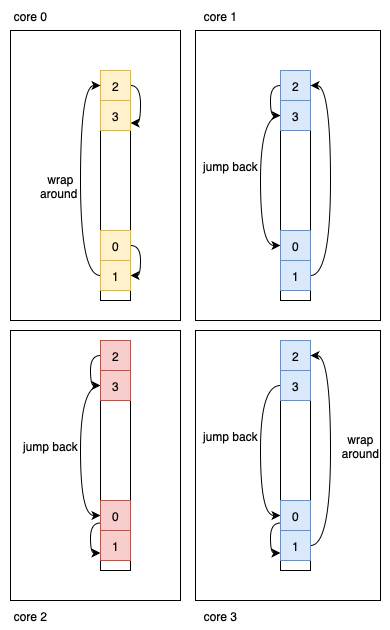
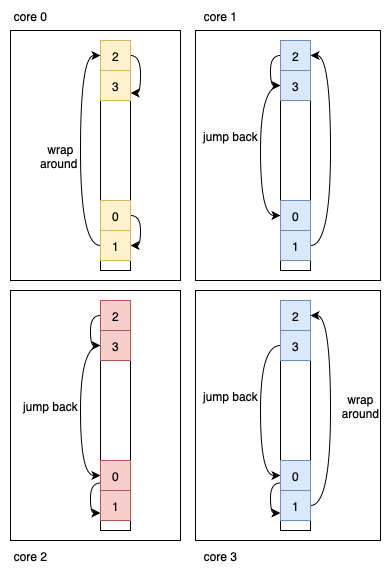
[skip ci] update doc

diff --git a/tech_reports/Prefetcher/Prefetcher.md b/tech_reports/Prefetcher/Prefetcher.md
@@ -110,7 +110,7 @@ The prefetcher acts as a **sender** in the global circular buffer setup, utilizi
 1. **DRAM Reader Kernel** (`reader_dram.cpp`)
    - Fetches data from DRAM banks into local triple-buffered circular buffer
    - Each prefetcher core reads tensors from it's assigned DRAM bank, each tensor is read in block by block (the size of a block and number of blocks is based on the Matmul side specification)
-   - **Transaction ID Management**: Uses NOC transaction IDs to coordinate DRAM reads with the triple-buffered circular buffer. The kernel maintains `curr_block_trid` to track which transaction ID to use for each block, rotating through IDs 1→2→3→1→... to map reads to different blocks.
+   - **Transaction ID Management**: Uses NoC transaction IDs to coordinate DRAM reads with the triple-buffered circular buffer. The kernel maintains `curr_block_trid` to track which transaction ID to use for each block, rotating through IDs 1→2→3→1→... to map reads to different blocks.
 
    For detailed implementation of DRAM reading optimizations and transaction ID management, see [Saturating_DRAM_bandwidth.md](../Saturating_DRAM_bandwidth/Saturating_DRAM_bandwidth.md).
 
@@ -126,7 +126,7 @@ The prefetcher acts as a **sender** in the global circular buffer setup, utilizi
    experimental::resize_remote_sender_cb_interface<true>(remote_cb_id, curr_block_size_per_receiver, noc);
    ```
    - This API is called each time before we switch to the next tensor. Since different tensors have different shapes and tile sizes and data formats, this caused each tensor having different block size. The global CB page size needs to be reconfigured for each tensor to match the block size that will be sent to each receiver core.
-   - For the detailed implementation, it updates the CB interface page size, adjusts read/write pointers to proper alignment, and if necessary, signals receivers over NOC about the configuration change.
+   - For the detailed implementation, it updates the CB interface page size, adjusts read/write pointers to proper alignment, and if necessary, signals receivers over NoC about the configuration change.
 
    **2. Flow Control (`remote_cb_reserve_back`)**
    ```cpp
@@ -149,7 +149,7 @@ The prefetcher acts as a **sender** in the global circular buffer setup, utilizi
    - This is the core data movement operation that actually transfers the tensor block from the prefetcher's local CB to each receiver core's portion of the global CB.
    - `block_height_in_pages` means the number of pages on the height dim of each tensor block. `coalesced_page_size` here is the pages that grouped together that can form one NoC writes. `coalesced_num_pages_per_row` means the number of NoC writes need to be performed for each row of the block.
    - functionality:
-     - Performs coalesced NOC writes to distribute block slices to each receiver core
+     - Performs coalesced NoC writes to distribute block slices to each receiver core
      - Each receiver gets a slice of the tensor block
      - Updates the sent page counters to signal receivers that new data is available
      - Handles wraparound in the circular buffer automatically
@@ -202,7 +202,7 @@ uint32_t num_receivers = l1_remote_cb_config_addr[1];            // Number of re
 uint32_t fifo_start_addr = l1_remote_cb_config_addr[2];          // Base address of circular buffer
 uint32_t fifo_size = l1_remote_cb_config_addr[3];               // Total size of circular buffer
 uint32_t fifo_ptr = l1_remote_cb_config_addr[4];                // Initial read/write pointer
-uint32_t remote_noc_xy_addr = l1_remote_cb_config_addr[5];      // Address containing NOC coordinates
+uint32_t remote_noc_xy_addr = l1_remote_cb_config_addr[5];      // Address containing NoC coordinates
 uint32_t aligned_pages_sent_addr = l1_remote_cb_config_addr[6]; // Address for page synchronization counters
 ```
 
@@ -215,7 +215,7 @@ RemoteSenderCBInterface& sender_cb_interface = get_remote_sender_cb_interface(cb
 sender_cb_interface.config_ptr = config_addr;                    // Pointer to L1 config
 sender_cb_interface.fifo_start_addr = fifo_start_addr;          // Buffer start address
 sender_cb_interface.fifo_wr_ptr = fifo_ptr;                     // Write pointer
-sender_cb_interface.receiver_noc_xy_ptr = remote_noc_xy_addr;   // Receiver NOC coordinates
+sender_cb_interface.receiver_noc_xy_ptr = remote_noc_xy_addr;   // Receiver NoC coordinates
 sender_cb_interface.aligned_pages_sent_ptr = aligned_pages_sent_addr; // Sent page counters
 sender_cb_interface.num_receivers = num_receivers;             // Number of receivers
 ```
@@ -226,7 +226,7 @@ RemoteReceiverCBInterface& receiver_cb_interface = get_remote_receiver_cb_interf
 receiver_cb_interface.config_ptr = config_addr;                 // Pointer to L1 config
 receiver_cb_interface.fifo_start_addr = fifo_start_addr;       // Buffer start address
 receiver_cb_interface.fifo_rd_ptr = fifo_ptr;                  // Read pointer
-receiver_cb_interface.sender_noc_x = sender_noc_x;             // Sender NOC coordinates
+receiver_cb_interface.sender_noc_x = sender_noc_x;             // Sender NoC coordinates
 receiver_cb_interface.sender_noc_y = sender_noc_y;
 receiver_cb_interface.aligned_pages_acked_ptr = aligned_pages_acked_addr; // Acked page counters
 ```
@@ -234,7 +234,7 @@ receiver_cb_interface.aligned_pages_acked_ptr = aligned_pages_acked_addr; // Ack
 **Key Initialization Steps:**
 1. **Configuration Reading**: Each core reads its role (sender/receiver) and parameters from L1
 2. **Interface Setup**: Appropriate CB interface structure is populated based on core role
-3. **NOC Coordinate Mapping**: NOC coordinates are extracted for remote communication
+3. **NoC Coordinate Mapping**: NoC coordinates are extracted for remote communication
 4. **Synchronization Setup**: Page counter addresses are configured for flow control
 5. **Initial Sizing**: The CB interface is sized with initial page size via `resize_remote_*_cb_interface`
 
@@ -253,11 +253,11 @@ When switching between tensors with different shapes or data formats, the global
 **The Problem Without Alignment:**
 If tensors are stored at non-aligned locations in the circular buffer, when the buffer wraps around to the top, a simple `cb_pop_front` operation on the consumer side will not land at the correct tensor boundary. The consumer would read from the middle of a tensor or across tensor boundaries, corrupting the data.
 
-**How It Works:**
+**Alignment:**
 1. **Before New Tensor**: The write pointer may be at an arbitrary location after the previous tensor
-2. **Alignment Step**: The pointer is advanced to the next page-aligned boundary that matches the new tensor's page size
+2. **Alignment Step**: The pointer is advanced to the next page-aligned address that matches the new tensor's page size, ie, (address - global CB start address) is always the multiple of current page size.
 3. **Tensor Storage**: The new tensor is stored starting at this aligned location
-4. **Wraparound Guarantee**: When the buffer wraps around, the consumer's `cb_pop_front` operations will correctly land at tensor boundaries
+4. **Wraparound**: When the buffer wraps around, the consumer's `cb_pop_front` operations will correctly land at tensor boundaries
 
 **Consumer Benefit:**
 With page alignment, the consumer (matmul core) can perform simple circular buffer operations without worrying about tensor boundaries. Each `cb_pop_front` operation moves exactly one "page" (tensor block), and wraparound automatically lands at the start of the next tensor.
@@ -271,180 +271,49 @@ The matmul operation serves as the consumer side of the global circular buffer, 
 
 ### Overview:
 
-Matmul cores act as **receivers** in the global CB system, consuming data streamed by the prefetcher:
+Matmul cores act as **receivers** in the global CB system, consuming data streamed by the prefetcher. Here is the diagram of a ring Matmul consisting of 4 cores, each core start at a different ring index. For example, core 0 strat at ring index 0 and iterate over the weight tensor in global CB with an order 0->1->2->3, core 1 strat at ring index 1 and iterate over the weight tensor in global CB with an order 1->2->3->0.
+
+![Matmul 1D Ring Example](images/matmul-1d-ring-example.png)
 
 
 ### Mechanism: Advanced Circular Buffer Management
 
 #### 1. Tensor Split Detection and Handling
 
-Large tensors may wrap around the circular buffer boundary. The matmul kernel detects and handles this automatically:
+For tensors that does not wrap around the global CB boundary, each block is allocated continuously for the tensor, and no special management are needed. For tensors that wrap around the global CB boundary, special pointer management are needed to make sure each core indexes into the global CB correclty. The matmul kernel detects and handles this automatically:
 
-```cpp
-FORCE_INLINE bool is_tensor_split(uint32_t cb_id, uint32_t tensor_size_bytes) {
-    LocalCBInterface& local_cb = get_local_cb_interface(cb_id);
-    uint32_t fifo_rd_ptr = local_cb.fifo_rd_ptr;
-    uint32_t fifo_limit = local_cb.fifo_limit;
-    // Check if tensor exceeds remaining buffer space
-    bool split = (fifo_limit - fifo_rd_ptr) < tensor_size_bytes / L1_ALIGNMENT;
-    return split;
-}
-```
+![Matmul 1D Ring Tensor Handling](images/matmul-1d-ring-tensor-handling.png)
 
-When a tensor split is detected, the kernel handles wraparound correctly:
+**Tensor Split Scenarios:**
 
-```cpp
-FORCE_INLINE void calculate_next_block_index_and_update_rd_ptr(
-    uint32_t cb_id, uint32_t num_blocks, uint32_t block_size_bytes,
-    uint32_t curr_block_index, uint32_t cb_start_addr, uint32_t rd_ptr_start_addr,
-    bool tensor_split, uint32_t* updated_block_index, uint32_t* updated_rd_ptr) {
+The image illustrates two critical scenarios the matmul kernel must handle:
 
-    LocalCBInterface& local_cb = get_local_cb_interface(cb_id);
-    uint32_t next_block_index = curr_block_index + 1;
-    bool reach_limit = local_cb.fifo_rd_ptr == local_cb.fifo_limit;
-    bool last_block = curr_block_index == (num_blocks - 1);
+1. **Tensor Split Detected**: When the current read pointer position plus the tensor size exceeds the circular buffer boundary, a split is detected. This triggers wraparound logic to ensure correct block access.
 
-    if (tensor_split) {
-        if (reach_limit) {
-            local_cb.fifo_rd_ptr = cb_start_addr;  // Wrap to beginning
-            if (last_block) {
-                next_block_index = 0;
-                next_fifo_rd_ptr = rd_ptr_start_addr;
-            } else {
-                next_fifo_rd_ptr = cb_start_addr + block_size_bytes_aligned;
-            }
-        }
-        // ... additional wraparound logic
-    }
-}
-```
+2. **Ring Index Wraparound**: In a 1D ring topology, each core start at the Nth block, where N is their ring index. When tensor splits occur, the kernel must correctly calculate both the start block index, the next block index and the wrapped read pointer address. For exmple, core 3 in the diagram first start at block 3, the next block will require a jump back to the base tensor address, and after processing block 1, it will require a wrap around handling to the top of the global CB.
 
-#### 2. Ring Index Positioning
 
-Each matmul core in the 1D ring processes different blocks. The kernel automatically positions the read pointer to the correct starting location:
-
-```cpp
-FORCE_INLINE void update_rd_ptr_to_ring_index(
-    uint32_t cb_id, uint32_t block_size_bytes, uint32_t ring_index, bool tensor_split) {
-
-    LocalCBInterface& local_cb = get_local_cb_interface(cb_id);
-
-    if (tensor_split) {
-        // Handle wraparound for ring positioning
-        if ((local_cb.fifo_rd_ptr + ring_index * block_size_bytes / L1_ALIGNMENT) >= local_cb.fifo_limit) {
-            uint32_t fifo_size = local_cb.fifo_size;
-            uint32_t fifo_limit = local_cb.fifo_limit;
-            uint32_t fifo_start_addr = fifo_limit - fifo_size;
-            uint32_t fifo_size_skip_bytes = local_cb.fifo_rd_ptr - fifo_start_addr;
-
-            // Calculate wrapped position using modulo arithmetic
-            local_cb.fifo_rd_ptr = fifo_start_addr +
-                (fifo_size_skip_bytes + ring_index * block_size_bytes / L1_ALIGNMENT) % local_cb.fifo_size;
-        } else {
-            local_cb.fifo_rd_ptr += ring_index * block_size_bytes / L1_ALIGNMENT;
-        }
-    } else {
-        // Simple offset for non-split tensors
-        local_cb.fifo_rd_ptr += ring_index * block_size_bytes / L1_ALIGNMENT;
-    }
-}
-```
-
-#### 3. Compute Kernel Integration
-
-The compute kernel manages CB state throughout matmul execution:
-
-```cpp
-// From bmm_large_block_zm_fused_bias_activation_gathered.cpp
-#ifdef ENABLE_GLOBAL_CB
-    uint32_t in1_cb_start_addr = 0;
-    uint32_t in1_rd_ptr_start_addr = 0;
-    uint32_t curr_in1_block_index = 0;
-    bool in1_tensor_split = 0;
-
-    // Initialize CB interface state
-    UNPACK((in1_cb_start_addr = get_local_cb_start_addr(in1_cb_id)));
-    UNPACK((in1_rd_ptr_start_addr = get_local_cb_rd_ptr(in1_cb_id)));
-    UNPACK((curr_in1_block_index = ring_idx));
-    UNPACK((in1_tensor_split = is_tensor_split(in1_cb_id, in1_tensor_size_bytes)));
-
-    // Position to correct ring index
-    UNPACK((update_rd_ptr_to_ring_index(in1_cb_id, in1_block_size_bytes, ring_idx, in1_tensor_split)));
-#endif
-
-for (uint32_t block = 0; block < num_blocks; block++) {
-    const uint32_t curr_ring_idx = (ring_idx + block) % ring_size;
-
-    // Wait for data from global CB
-    if constexpr (in1_is_dram) {
-        cb_wait_front(in1_cb_id, in1_block_num_tiles);
-    }
-
-    #ifdef ENABLE_GLOBAL_CB
-        // Calculate next block position in ring
-        UNPACK((calculate_next_block_index_and_update_rd_ptr(
-            in1_cb_id, num_blocks, in1_block_size_bytes,
-            curr_in1_block_index, in1_cb_start_addr, in1_rd_ptr_start_addr,
-            in1_tensor_split, &next_in1_block_index, &next_in1_rd_ptr_addr)));
-    #endif
-
-    // Perform matmul computation
-    // ... computation logic ...
-
-    #ifdef ENABLE_GLOBAL_CB
-        // Update state for next iteration
-        curr_in1_block_index = next_in1_block_index;
-        UNPACK((update_local_cb_rd_ptr(in1_cb_id, next_in1_rd_ptr_addr)));
-    #endif
-}
-
-#ifdef ENABLE_GLOBAL_CB
-    // Reset for next tensor in sequence
-    UNPACK((update_local_cb_rd_ptr(in1_cb_id, in1_rd_ptr_start_addr)));
-    UNPACK((update_rd_ptr_to_ring_index(in1_cb_id, in1_block_size_bytes, ring_size, in1_tensor_split)));
-#endif
-```
-
-#### 4. Synchronization and Flow Control
-
-The matmul system implements careful synchronization to ensure data availability and proper flow control:
-
-```cpp
-// Receiver-side flow control
-FORCE_INLINE void remote_cb_wait_front(uint32_t cb_id, uint32_t num_pages) {
-    RemoteReceiverCBInterface& remote_cb = get_remote_receiver_cb_interface(cb_id);
-    uint32_t len_bytes = num_pages * remote_cb.fifo_page_size;
-    uint32_t num_pages_wait = len_bytes / REMOTE_CIRCULAR_BUFFER_ALIGNED_PAGE_SIZE;
-
-    // Wait for sender (prefetcher) to provide enough data
-    volatile tt_l1_ptr uint32_t* pages_acked_ptr = /* ... */;
-    volatile tt_l1_ptr uint32_t* pages_sent_ptr = /* ... */;
-
-    do {
-        invalidate_l1_cache();
-        pages_acked = *pages_acked_ptr;
-        pages_sent = *pages_sent_ptr;
-        num_pages_recv = pages_sent - pages_acked;
-    } while (num_pages_recv < num_pages_wait);
-}
-
-// Signal completion to sender
-FORCE_INLINE void remote_cb_pop_front(uint32_t cb_id, uint32_t num_pages, uint8_t noc) {
-    RemoteReceiverCBInterface& remote_cb = get_remote_receiver_cb_interface(cb_id);
-    // ... update read pointer ...
-
-    uint32_t num_aligned_pages = len_bytes / REMOTE_CIRCULAR_BUFFER_ALIGNED_PAGE_SIZE;
-    detail::update_pages_acked(remote_cb, num_aligned_pages, noc, false, write_at_cmd_buf);
-}
-```
-
+#### 2. Synchronization and Flow Control
+Since each core starts at a different block index, it is neccessary to let Matmul wait for the entire tensor to arrive in global CB before performing any computations. This is because prefetcher is not aware of the out-of-order accessing of tensor blocks, and the `pages_sent` credit is in-order for each block. Performing any computations before the full tensor arrives might cause the use of garbage data. It is also the same case for Matmul pop out the tensor in global CB only after all the blocks are processed, as `pages_ack` is also in-order for each block, and a premature ack can invalidate the wrong block index and cause block overwritten.
+ 
 ### Performance Benefits
 
 The prefetcher + matmul integration provides several key performance advantages:
 
 1. **Weight Prefetching**: DRAM reads ahead of Matmul execution, removing the DRAM bandwidth limitation
-2. **High Bandwidth Utilization**: Coalesced NOC writes maximize memory bandwidth
-3. **Minimal Synchronization**: Only sync per tensor block
-4. **Persistent State**: Continuous streaming across multiple program executions
+2. **High Bandwidth Utilization**: Coalesced NoC writes and use of transaction IDs to maximize memory bandwidth
+3. **Minimal Synchronization**: For prefetcher, only sending credit per block, and for Matmul only sending ack per tensor to minimize the synchronization cost. 
 
 This architecture enables efficient processing of large language models where weight tensors must be continuously streamed from DRAM to distributed compute cores with minimal latency and maximum throughput.
+
+### Future Works
+
+There are several optimizations can be adopted by prefetcher:
+
+1. **Skip NoC Counter Update**: Currently we rely on updating `posted` / `non-posted` NoC counters after issuing a NoC write, and flush on the NoC transaction to make sure the current packet left L1, this can cause dozens of cycles stalling, and updating the NoC counters also cost a few cycles. One other way to workaround this issue is to use transaction IDs for the NoC writes, similar to how it is done for DRAM reads. Instead of flushing the current block, we can flush on the transaction ID for the previous block.
+
+1. **Use Stream Registers**: Currently we use L1 for `pages_sent` and `pages_ack`, and accessing L1 has worse latency compared to accessing stream registers. We should be able to switch to stream registers for the send/receive credits.
+
+2. **Pause Prefetching**: Currently prefetcher will send data whenever there is space available in global CB, and this can cause NoC congestion if there are other ops using the same NoC and cause slow down. It would be benificial for some cases to pause the prefetcher from consuming the NoC bandwidth and let the other ops run faster. A scratch location in L1 or a stream register can be used for sending this signal to prefetcher from other ops, and prefetcher will enter a while loop until that signal is cleared.
+
+
